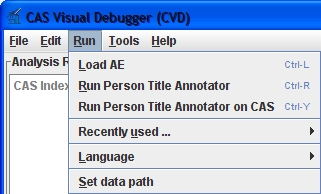
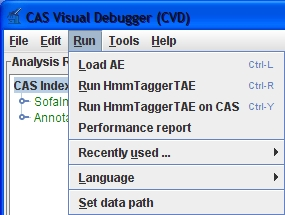
Jira UIMA-749: add documentation on CVD performance report.
https://issues.apache.org/jira/browse/UIMA-749

git-svn-id: https://svn.apache.org/repos/asf/incubator/uima/uimaj/trunk@641280 13f79535-47bb-0310-9956-ffa450edef68

diff --git a/uimaj-tools/src/main/java/org/apache/uima/tools/cvd/MainFrame.java b/uimaj-tools/src/main/java/org/apache/uima/tools/cvd/MainFrame.java
@@ -1155,7 +1155,7 @@ public class MainFrame extends JFrame {
     runMenu.add(this.runOnCasMenuItem);
     this.runOnCasMenuItem.addActionListener(new AnnotatorRunOnCasEventHandler(this));
     this.runOnCasMenuItem.setEnabled(false);
-    this.showPerfReportItem = new JMenuItem("Perf. report");
+    this.showPerfReportItem = new JMenuItem("Performance report");
     this.showPerfReportItem.setEnabled(false);
     this.showPerfReportItem.addActionListener(new ActionListener() {
       public void actionPerformed(ActionEvent e) {
